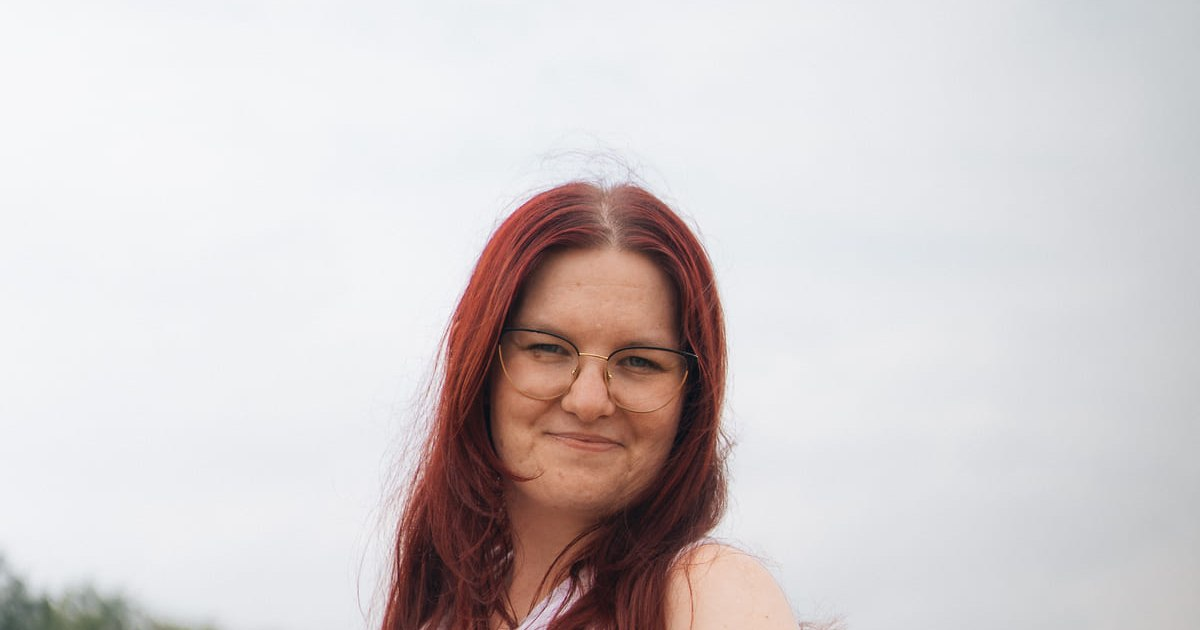
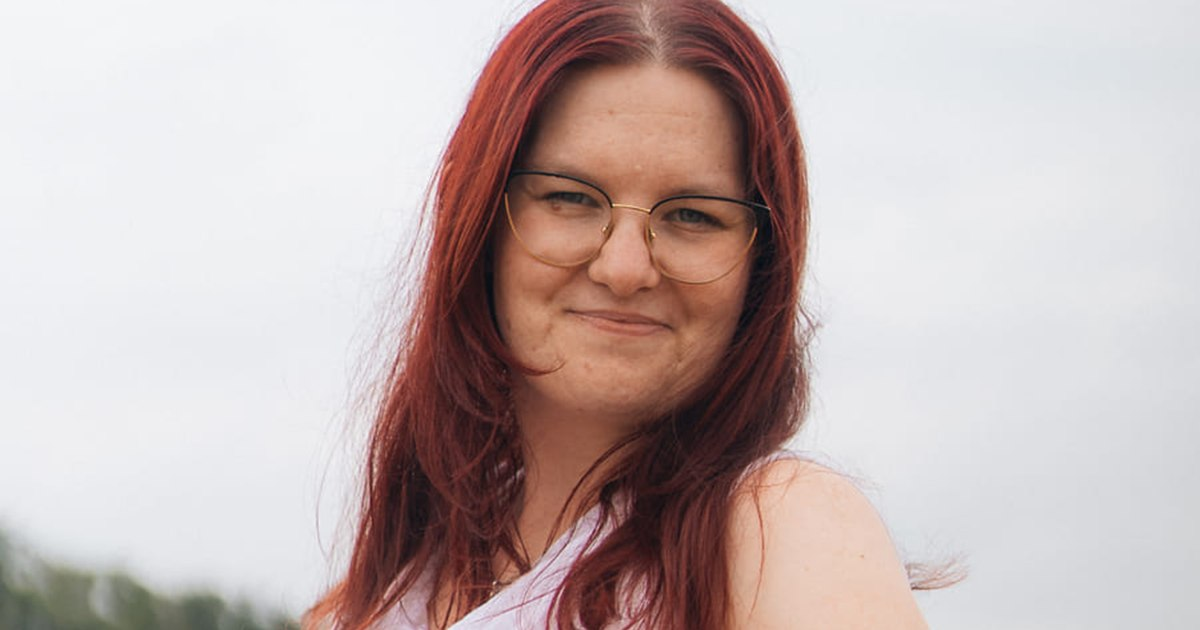
Verze2 - opravy

diff --git a/index.html b/index.html
@@ -6,15 +6,15 @@
   <meta http-equiv="X-UA-Compatible" content="IE=edge" />
   <meta name="viewport" content="width=device-width, initial-scale=1.0" />
 
-  <title>Anna Juranová – Virtuální asistentka &amp; Tvorba webu</title>
+  <title>Anna Juranová – virtuální asistentka &amp; webařka</title>
   <meta name="description"
-    content="Pomáhám srdcařkám v podnikání volněji dýchat – ať jde o zákaznickou péči, papírování, nebo web s duší. Virtuální asistentka a webařka Anna Juranová." />
+    content="Pomáhám srdcařkám v podnikání volněji dýchat – ať jde o zákaznickou péči, papírování, nebo web s duší. První online kávička zdarma." />
   <link rel="canonical" href="https://annajuranova.cz/" />
 
   <!-- Open Graph -->
   <meta property="og:type" content="website" />
   <meta property="og:url" content="https://annajuranova.cz/" />
-  <meta property="og:title" content="Anna Juranová – Virtuální asistentka &amp; Tvorba webu" />
+  <meta property="og:title" content="Anna Juranová – virtuální asistentka &amp; webařka" />
   <meta property="og:description"
     content="Pomáhám srdcařkám v podnikání volněji dýchat – zákaznická péče, administrativa nebo web s duší." />
   <meta property="og:image" content="https://annajuranova.cz/Obrazky/hero_sekce-og.jpeg" />
@@ -147,6 +147,7 @@
   <!-- ========== INTRO CARDS (4) ========== -->
   <section class="intro section" id="intro" aria-labelledby="intro-heading">
     <div class="container">
+      <h2 class="visually-hidden" id="intro-heading">Proč spolupracovat právě se mnou</h2>
       <div class="intro__grid">
 
         <article class="intro-card reveal">

diff --git a/muj-pribeh.html b/muj-pribeh.html
@@ -80,6 +80,8 @@
           <p class="section-eyebrow">Můj příběh</p>
           <h1 class="section-title" id="story-heading">Jsem Anna.<br />Vaše parťačka.</h1>
 
+          <h2 class="visually-hidden">Můj příběh</h2>
+
           <p>Jmenuji se Anna, jsem virtuální asistentka a&nbsp;webařka. 7&nbsp;let jsem pracovala v&nbsp;administrativě
             a&nbsp;zákaznické péči, a&nbsp;tak když jsem přemýšlela, co budu dělat, až půjdou děti do&nbsp;školky, volba
             byla jasná. Stanu se <span class="story__highlight">virtuální asistentkou</span>. Je&nbsp;to práce, která mě

diff --git a/virtualni-asistentka.html b/virtualni-asistentka.html
@@ -8,7 +8,7 @@
 
   <title>Virtuální asistentka – Anna Juranová</title>
   <meta name="description"
-    content="Administrativa, zákaznická péče a osobní asistence – převezmu to, co Vám bere čas a energii. Balíčky od 5 do 25 hodin měsíčně. Domluvte si online kávičku zdarma." />
+    content="Administrativa, zákaznická péče a osobní asistence – převezmu to, co Vám bere čas a energii. Balíčky 5–25 hodin měsíčně. Domluvte si online kávičku zdarma." />
   <link rel="canonical" href="https://annajuranova.cz/virtualni-asistentka" />
 
   <!-- Open Graph -->
